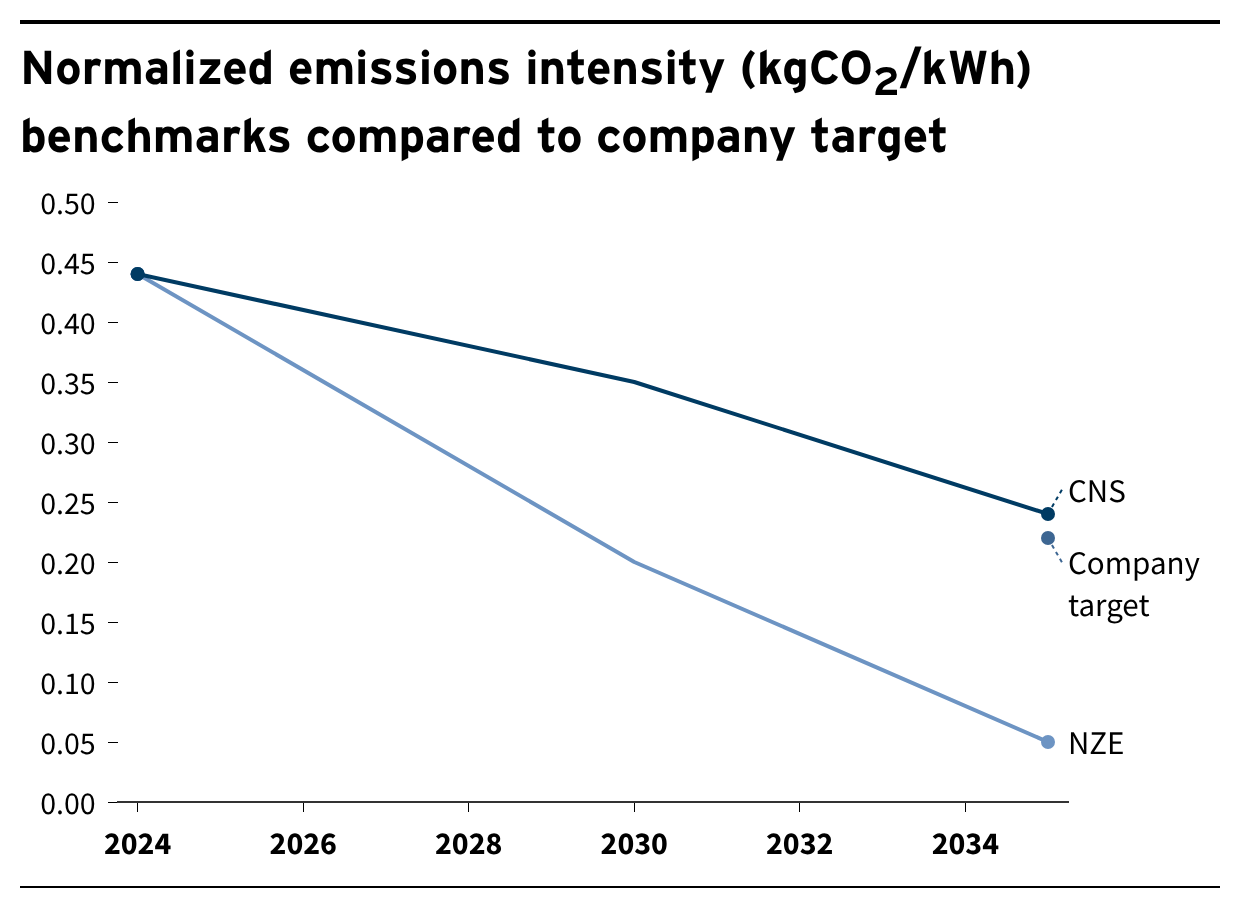
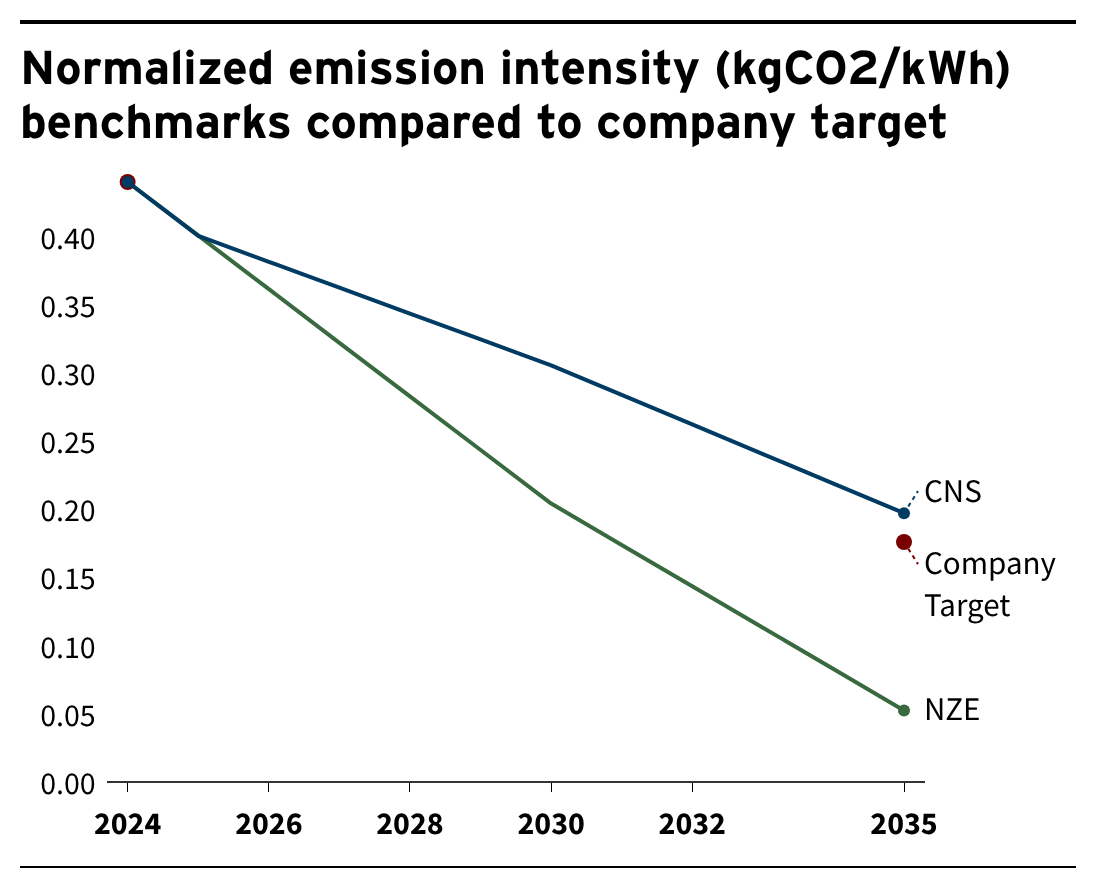
fix(case-studies): reconcile target setting and opportunities with the data
Follows the updated SharePoint drafts and charts (18 Nov):
- Target setting: the company now cuts intensity 60% by 2035, so its
  target sits just below the regional CNS pathway in the redrawn chart.
- Opportunities: new capacity chart from the JRC Reference data (2022
  fleet, 60% and 69% renewables); the fifteenfold growth is in solar;
  the pipeline is 60% gas; the PDP paragraph compares generation shares
  with the Reference and NDC-LTS pathways.

diff --git a/src/pages/CaseStudiesPage.tsx b/src/pages/CaseStudiesPage.tsx
@@ -88,7 +88,7 @@ export const caseStudies: CaseStudy[] = [
             <p>
               Let’s look at a hypothetical independent power producer operating
               gas assets in Indonesia that has committed to cut its Scope 1
-              emissions intensity 50% by 2035 (versus a 2024 baseline). Whether
+              emissions intensity 60% by 2035 (versus a 2024 baseline). Whether
               the company’s target meets a “high ambition” threshold depends on
               what it is measured against. The IEA’s Net Zero Emissions (NZE)
               scenario for the power sector is a widely used reference, but this
@@ -153,7 +153,7 @@ export const caseStudies: CaseStudy[] = [
             </p>
             <img
               src="/case-studies/company-target-setting-chart.png"
-              alt="Line chart of normalized emissions intensity in kgCO2/kWh from 2024 to 2035. Both pathways start at 0.44 in 2024. By 2035, NZE falls to 0.05 and CNS to 0.24. The company's 2035 target of 0.22 sits just below CNS and far above NZE."
+              alt="Line chart of normalized emissions intensity in kgCO2/kWh from 2024 to 2035. Both pathways start at 0.44 in 2024. By 2035, NZE falls to about 0.05 and CNS to just under 0.20. The company's 2035 target of about 0.18 sits just below CNS and far above NZE."
               loading="lazy"
               className={figureClass}
             />
@@ -209,7 +209,7 @@ export const caseStudies: CaseStudy[] = [
               hypothetical bank’s power sector lending has mostly gone to
               gas-fired independent power producers (IPPs) that sell to the
               Electricity Generating Authority of Thailand (EGAT) under
-              long-term contracts. Gas makes up 75% of the capacity in its
+              long-term contracts. Gas makes up 60% of the capacity in its
               current portfolio pipeline, with renewables making up the
               remaining share.
             </p>
@@ -259,26 +259,28 @@ export const caseStudies: CaseStudy[] = [
             </p>
             <img
               src="/case-studies/investment-opportunity-identification-chart.png"
-              alt="Stacked bar chart of the share of installed capacity. The 2023 existing fleet is 25% renewables and 75% fossil fuels. Under the JRC Reference pathway, renewables reach 48% in 2030 and 71% in 2035."
+              alt="Stacked bar chart of the share of installed capacity. The 2022 existing fleet is 37% renewables and 63% fossil fuels. Under the JRC Reference pathway, renewables reach 60% in 2030 and 69% in 2035."
               loading="lazy"
               className={figureClass}
             />
             <p>
               Under the JRC reference pathway, renewables go from a minority of
               Thailand’s fleet today to the majority by 2035. Getting there
-              means a fifteenfold growth in renewables compared to a 6.5% rise
-              in Thailand’s gas capacity from 2022 to 2035. An investment
-              pipeline that is majority gas may look like the existing fleet,
-              but it puts most of the bank’s new lending into a shrinking
-              segment of the market.
+              means a fifteenfold growth in solar compared to a 6.5% rise in
+              Thailand’s gas capacity from 2022 to 2035. An investment pipeline
+              that is majority gas may look like the existing fleet, but it puts
+              most of the bank’s new lending into a shrinking segment of the
+              market.
             </p>
             <p>
               Since this pathway was published, the government of Thailand has
               drafted a new Power Development Plan (PDP) for 2026–2050. The
               draft targets a 50% clean energy share of electricity generation
-              within 10 years. The JRC reference pathway showed this shift
-              occurring before the PDP made it a government target (pending
-              approval).
+              within 10 years. The JRC reference pathway already pointed in this
+              direction: it more than doubles the renewable share of generation,
+              from 18% in 2022 to 41% in 2035. JRC’s NDC-LTS pathway, which
+              assumes Thailand meets its climate pledges, lands almost exactly
+              on the draft PDP target, at 48% in 2035.
             </p>
             <p>
               Banks making use of country-level pathways will have seen this
